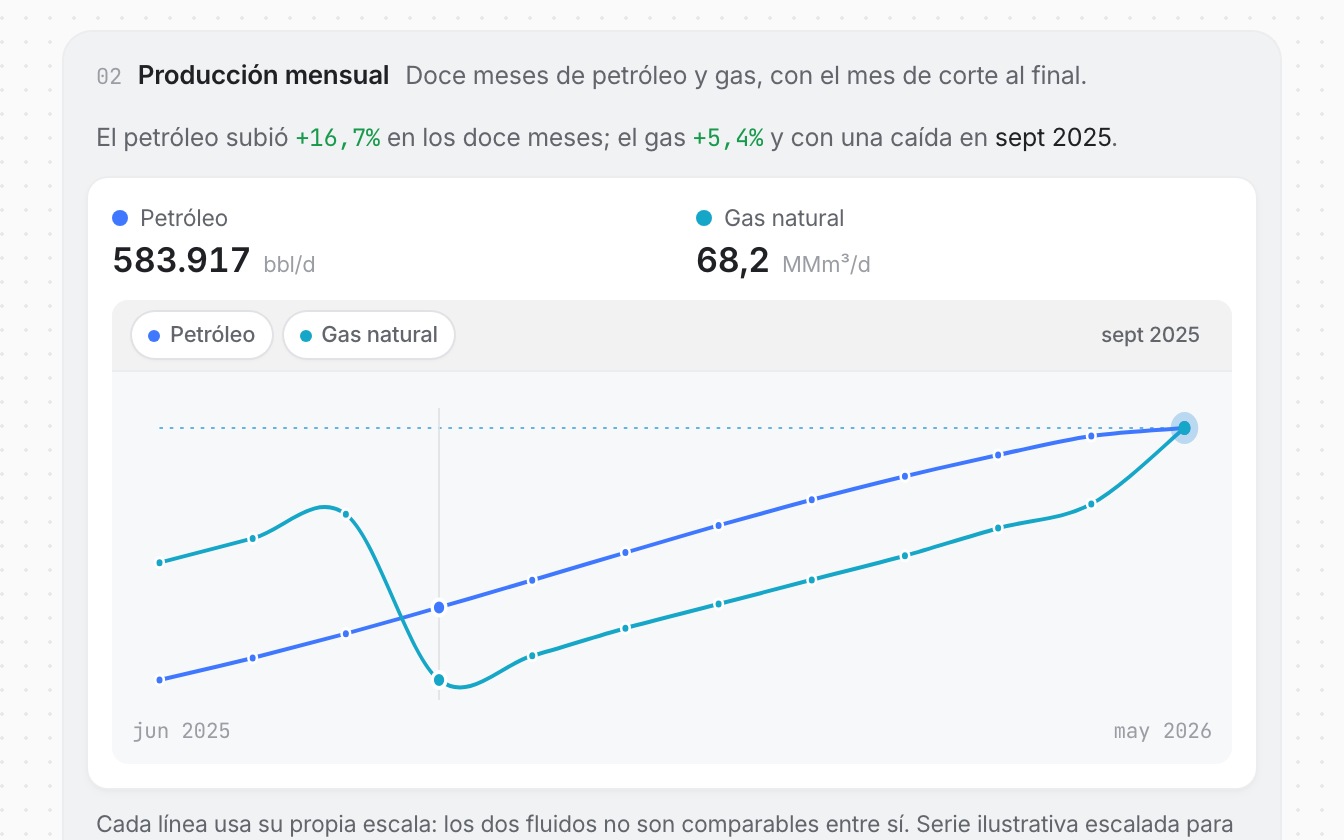
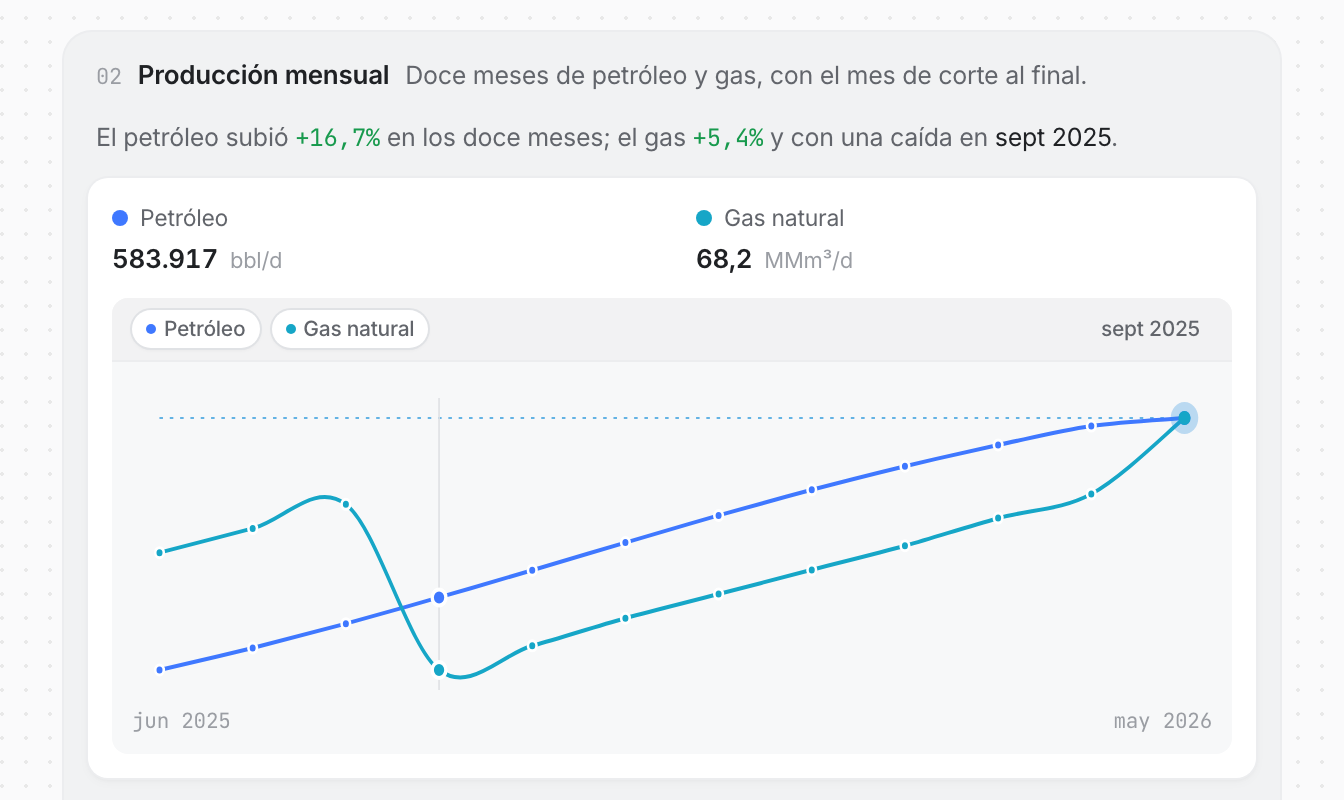
v2(dashboard): la sección 02 baja a la escala de la card 01
Las cifras iban a 17px y los interruptores a 11 con 22 de alto. Al lado de la
card 01 —cuyo titular es 13/600 y cuyos badges son 19px con texto de 10,5— se
leían como otro nivel de jerarquía, y las dos secciones están al mismo nivel.

Ahora coinciden exacto, medido: titular 13px/600 en las dos, y chips e
interruptores 10,5px/500 con 19 de alto en las dos.

Entre 13 y 17 el sistema no tiene ningún tamaño, así que 13 es el escalón que
hay para abajo. Y es el correcto: 17 es lo que la referencia usa para su única
cifra grande, que es el titular de una card entera; acá son dos lecturas
adentro de una sección que ya tiene su propio encabezado.

diff --git a/apps/ui-prototype/src/app/v2/sistema.css b/apps/ui-prototype/src/app/v2/sistema.css
@@ -697,20 +697,24 @@
 .s-toggle-btn {
   display: inline-flex;
   align-items: center;
-  gap: 5px;
-  padding: 3px 8px;
+  gap: 4px;
+  height: 19px;
+  padding: 0 7px;
   border: 0;
   border-radius: 999px;
   background: var(--surface);
   box-shadow: var(--shadow-btn);
   color: var(--ink-2);
   font: inherit;
-  font-size: 11px;
+  /* 19px de alto y 10,5 de texto: la misma caja que .s-chip--mini, que es la
+     que usan los badges de la card 01. Estaba a 11px con 3px de padding, o sea
+     22 de alto, y al lado de la otra sección se leía como otra escala. */
+  font-size: 10.5px;
   font-weight: 500;
   cursor: pointer;
   transition: opacity var(--dur-base) var(--ease-out);
 }
-.s-toggle-btn > i { display: block; width: 6px; height: 6px; border-radius: 50%; }
+.s-toggle-btn > i { display: block; width: 5px; height: 5px; border-radius: 50%; }
 
 /* ── Gráfico de líneas ──────────────────────────────────────────────────
    Ver el comentario de SerieLinea.tsx: la referencia SÍ tiene gráficos —yo

diff --git a/apps/ui-prototype/src/app/v2/_ui/SerieLinea.tsx b/apps/ui-prototype/src/app/v2/_ui/SerieLinea.tsx
@@ -100,8 +100,12 @@ export function SerieLinea({
               />
               {s.nombre}
             </span>
+            {/* 13/600 y no 17: es exactamente el tratamiento del titular de la
+                card 01 —"28.176.497 BOE"—, así las dos secciones se leen como
+                el mismo nivel de jerarquía. Entre 13 y 17 el sistema no tiene
+                nada, así que 13 es el escalón que hay. */}
             <p className="m-0 mt-0.5 flex items-baseline gap-1.5">
-              <span className="s-cifra">{s.textos[i]}</span>
+              <span className="s-titulo s-num">{s.textos[i]}</span>
               <span className="text-[11px]" style={{ color: 'var(--ink-3)' }}>
                 {s.unidad}
               </span>
